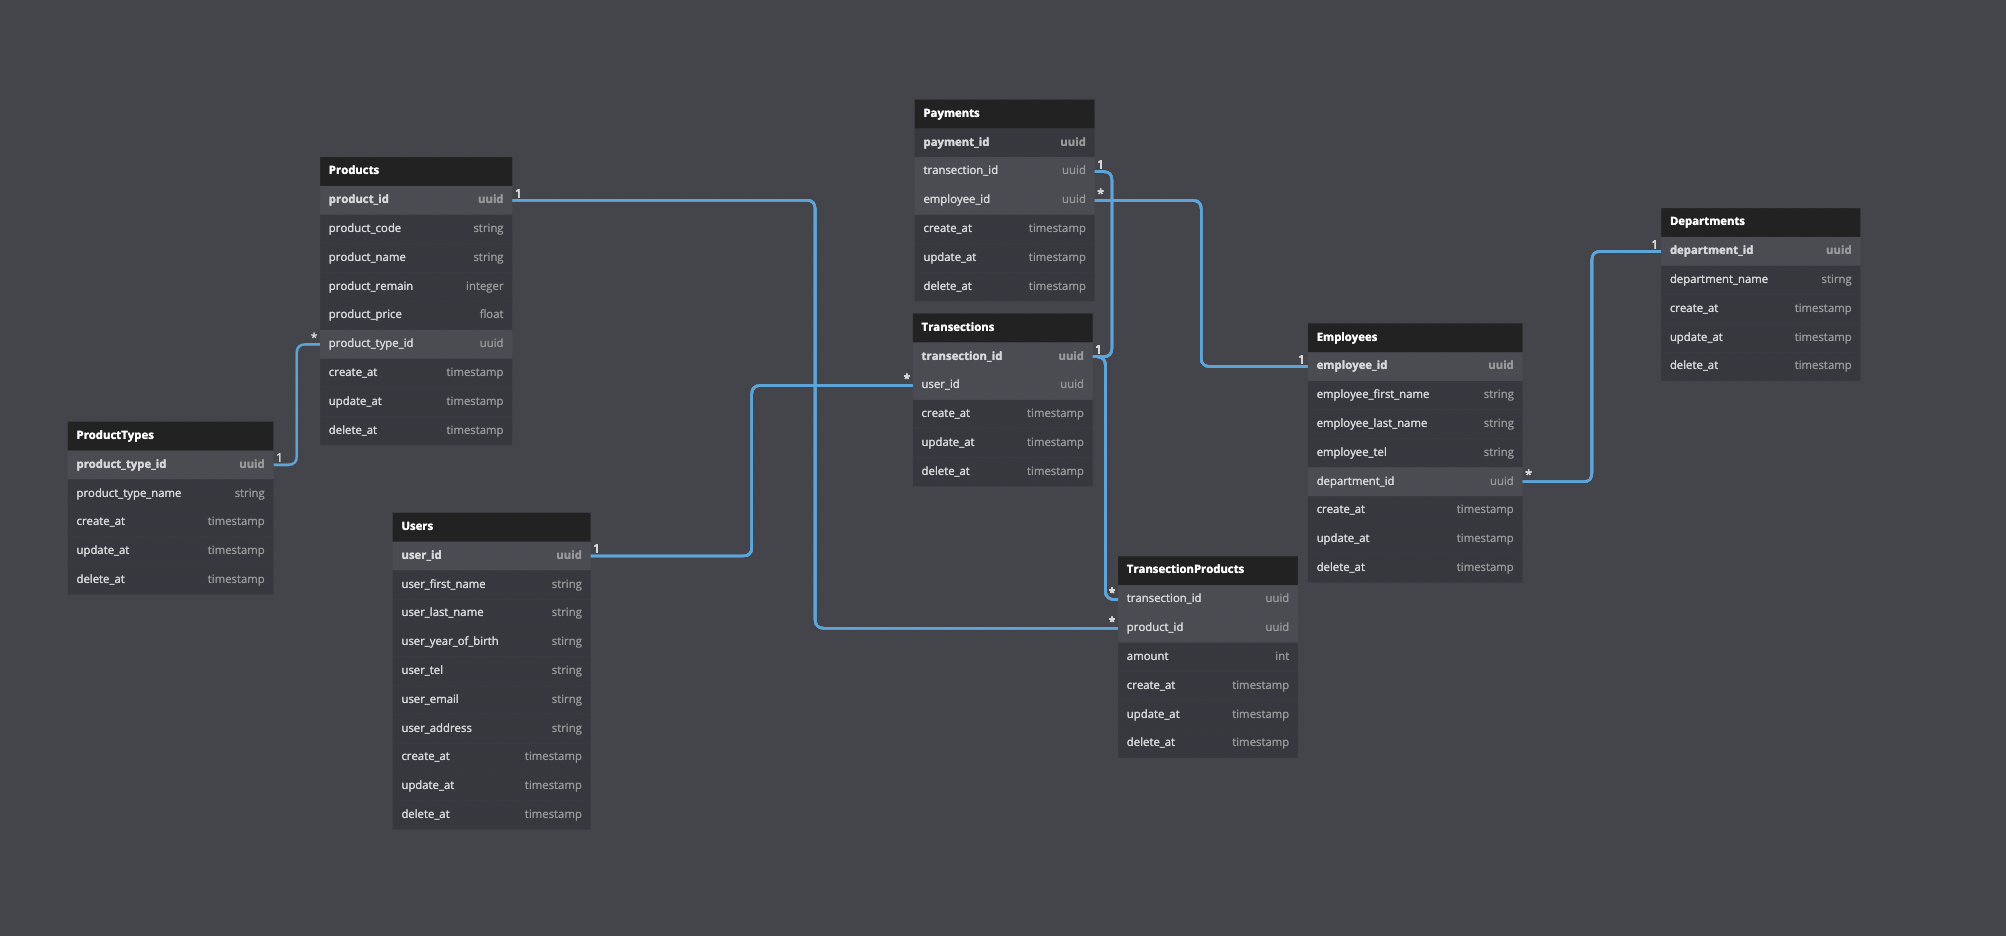
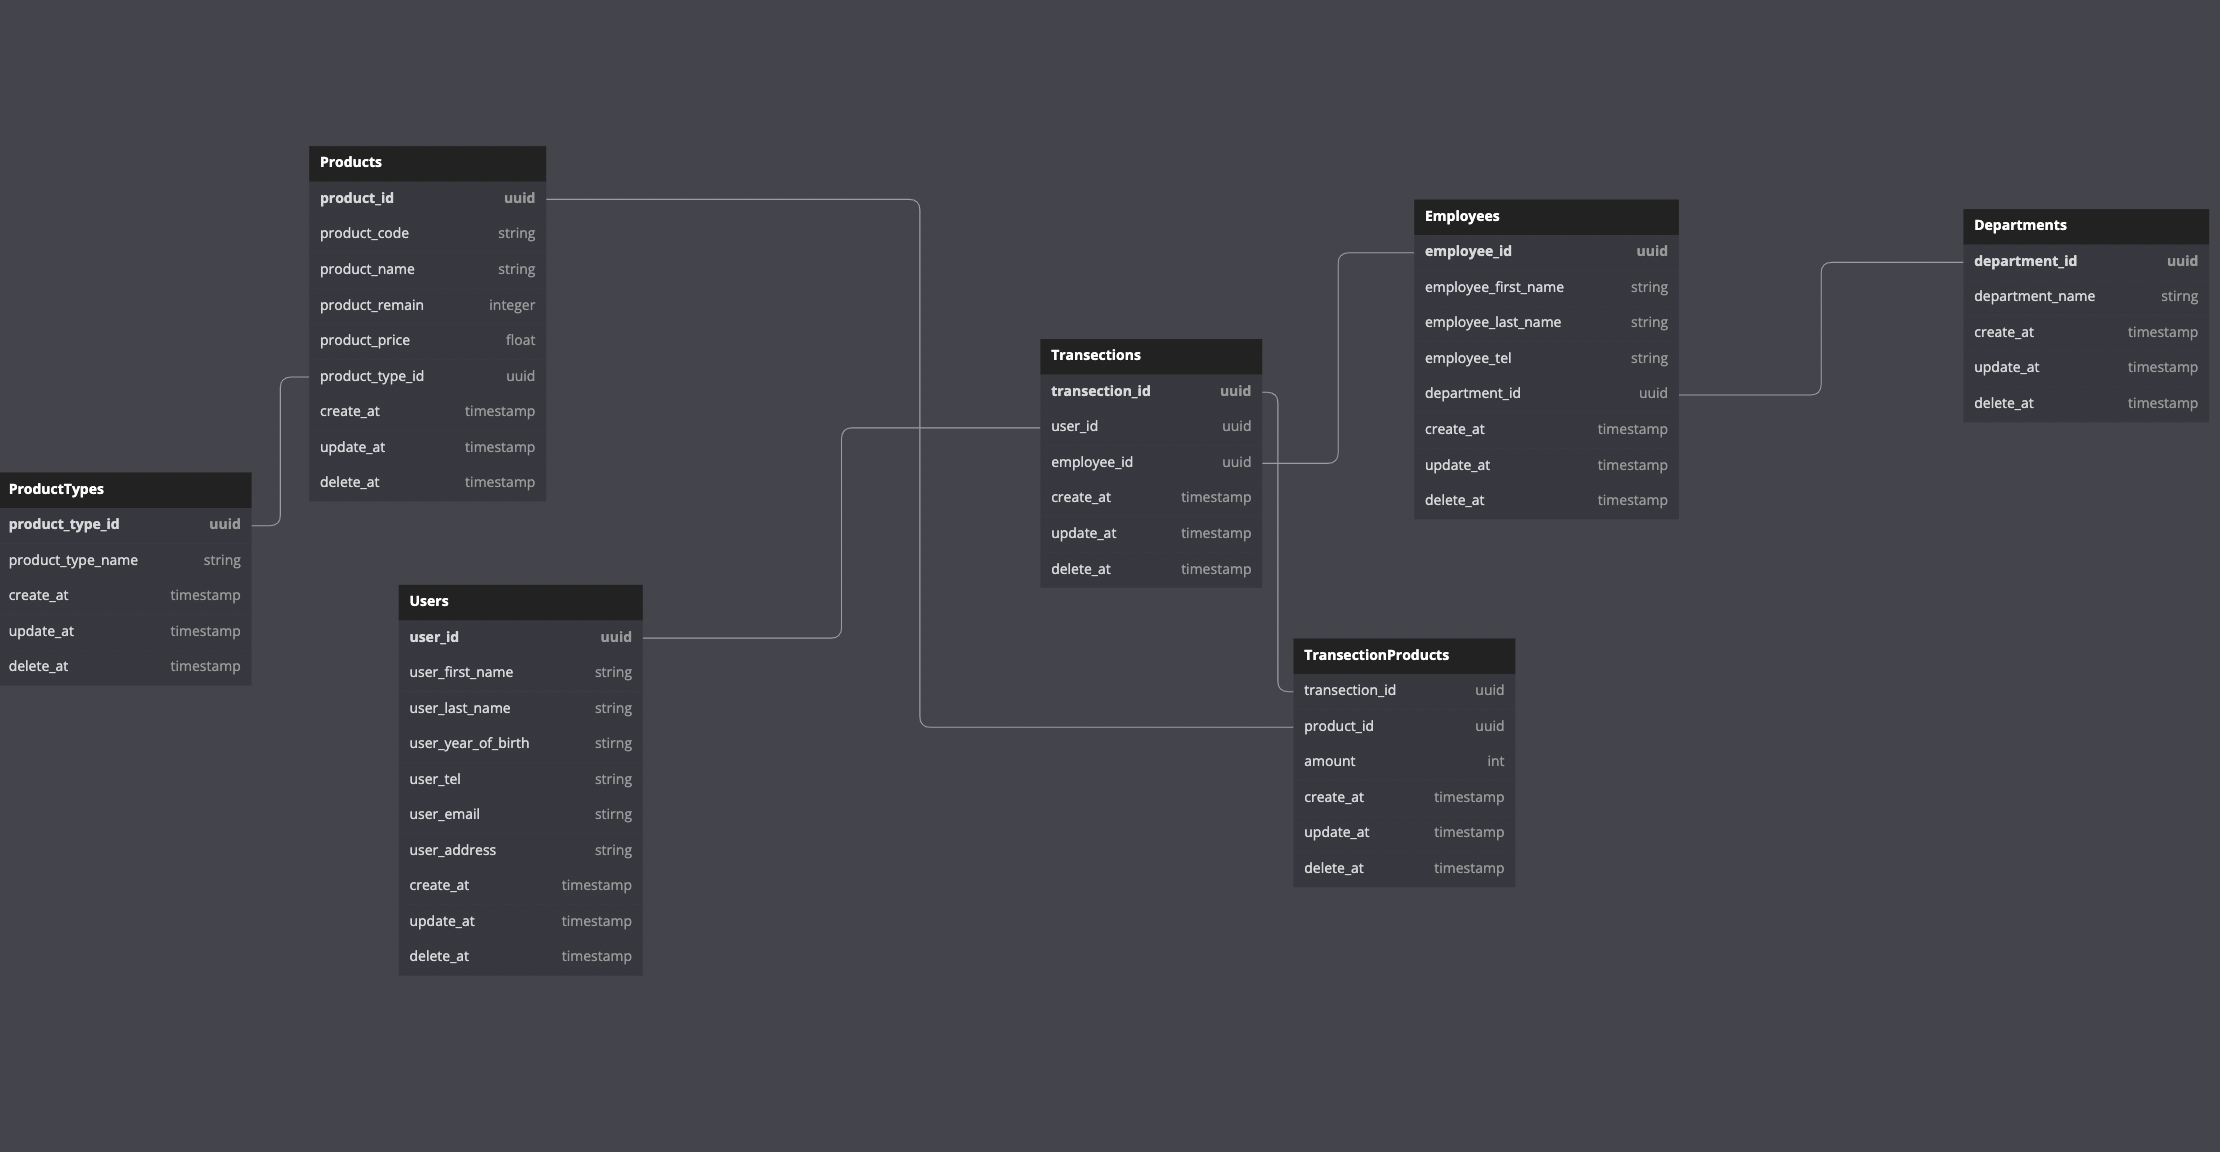
[+] update: readme.md and change table model

diff --git a/README.md b/README.md
@@ -1,17 +1,28 @@
-# Golang server
+# go backend
 
 - gin
 - gorm
+- postgresSQL
 
 ## .env
 
 ```.env
-USERNAME=
-PASSWORD=
-PORT=
+DB_USERNAME=
+DB_PASSWORD=
+DB_PORT=
 DB_NAME=
 ```
 
-# Model ที่กำลังพัฒนาอยู่
+## HOW TO USE
+
+```
+git clone https://github.com/nutthanonn/go-backend.git
+
+cd cmd
+go run main.go
+
+```
+
+# Database Model
 
 <p align="center"><img src="Erdiagram.png" width="100%"/></p>
